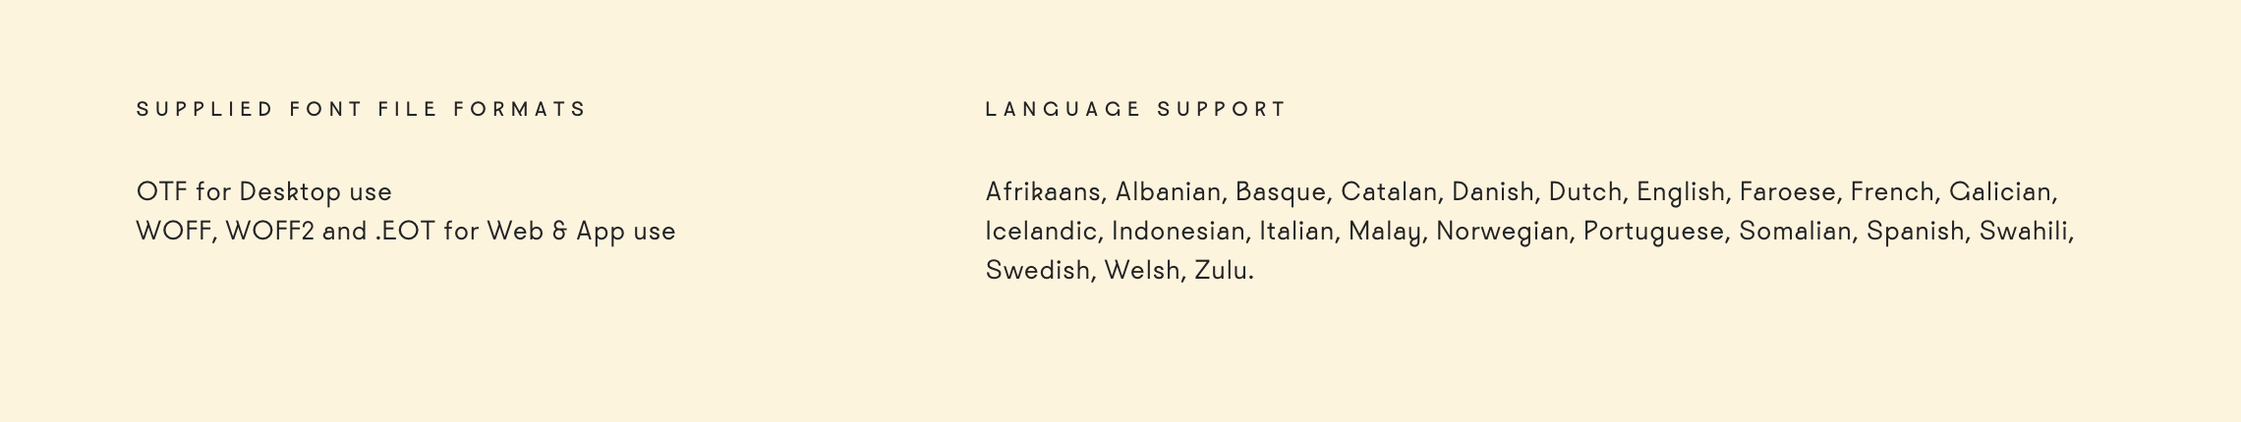
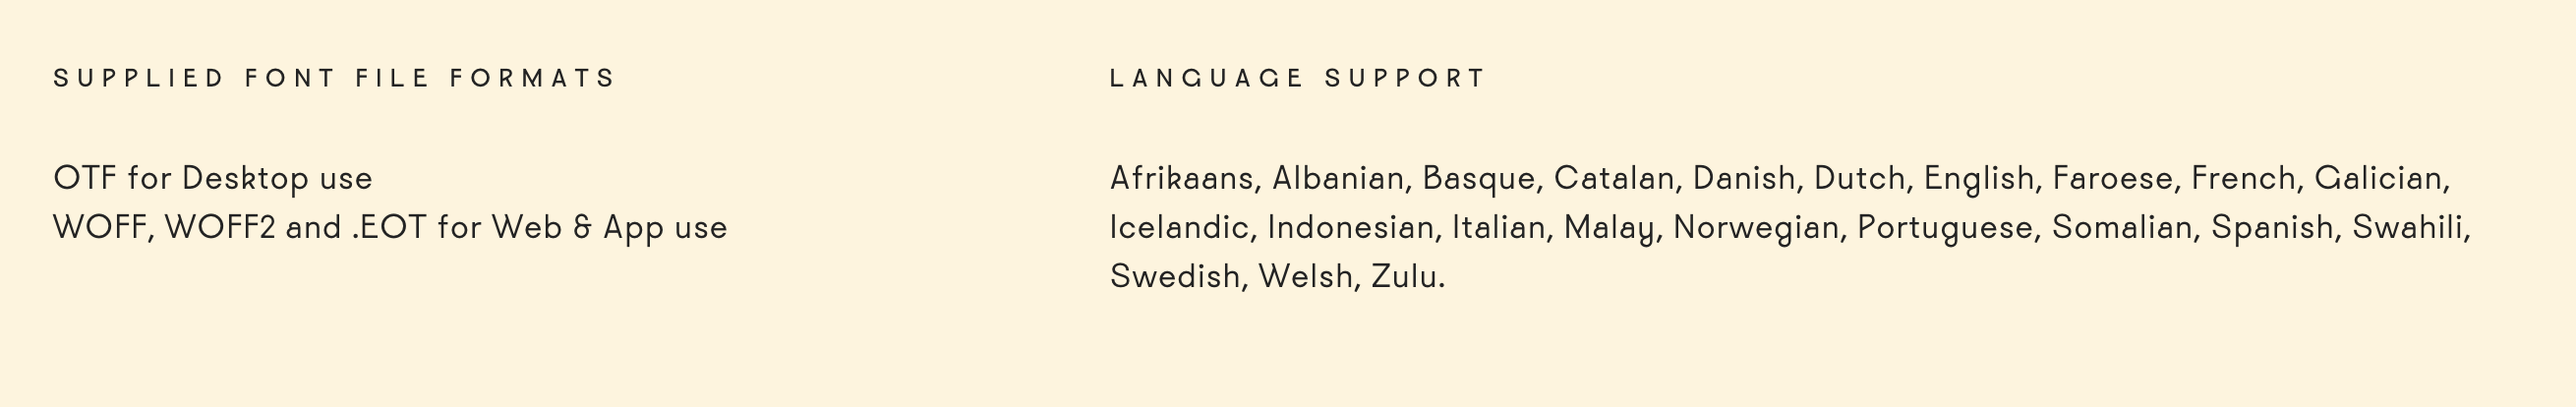
added support section molecules

diff --git a/components/index.html b/components/index.html
@@ -265,5 +265,33 @@
                     </div>
                 </div>
         </article>
+
+        <article class="component">
+            <h3 class="component__name">Support Modules</h3>
+                <div class="component__img">
+                    <img 
+                        srcset="img/support-module_formats.png 2x"
+                        src="img/support-module_formats.png" alt="image of support section module">
+                </div>
+                <div class="component__code">
+                    <div class="support-module">
+                        <h3 class="support-title">Supplied Font File Formats</h3>
+                        <p class="support-body__item">OTF for Desktop use</p>
+                        <p class="support-body__item">WOFF, WOFF2, and .EOT for Web &amp; App use</p>
+                    </div>
+                </div>
+                <div class="component__img">
+                    <img 
+                        srcset="img/support-module__language.png 2x"
+                        src="img/support-module__language.png" alt="image of support section module">
+                </div>
+                <div class="component__code">
+                    <div class="support-module">
+                        <h3 class="support-title">Language Support</h3>
+                        <p class="support-body__small">Afrikaans, Albanian, Basque, Catalan, Danish, Dutch, English, Faroese, French, Galician, Icelandic, Indonesian, Italian, Malay, Norwegian, Portuguese, Somalian, Spanish, Swahili, Swedish, Welsh, Zulu.</p>
+                    </div>
+                </div>
+        </article>
+
     </body>
 </html>

diff --git a/css/main.css b/css/main.css
@@ -233,3 +233,21 @@ input {
     border-bottom: 1px solid var(--black);
     max-width: 225px;
 }
+
+.support-module {
+    max-width: 700px;
+}
+
+.support-title {
+    padding-bottom: 10px;
+}
+
+.support-body__item {
+    font-size: 11pt;
+    line-height: .75em;
+}
+
+.support-body__small {
+    font-size: 11pt;
+    line-height: 1.5em;
+}
